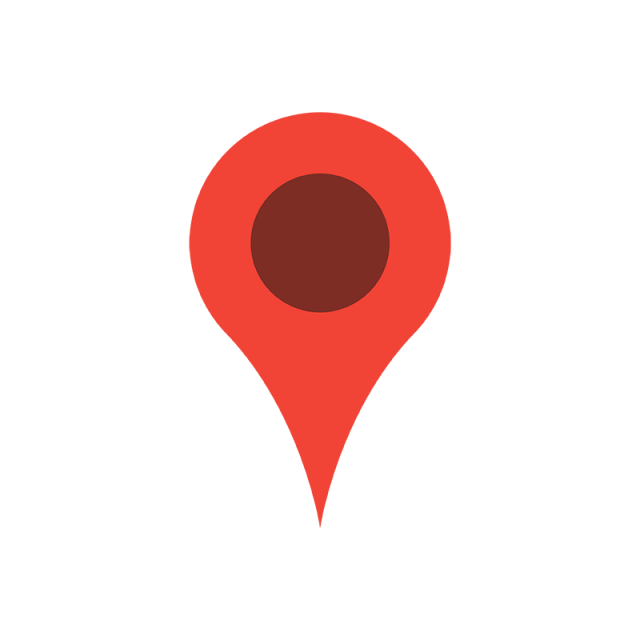
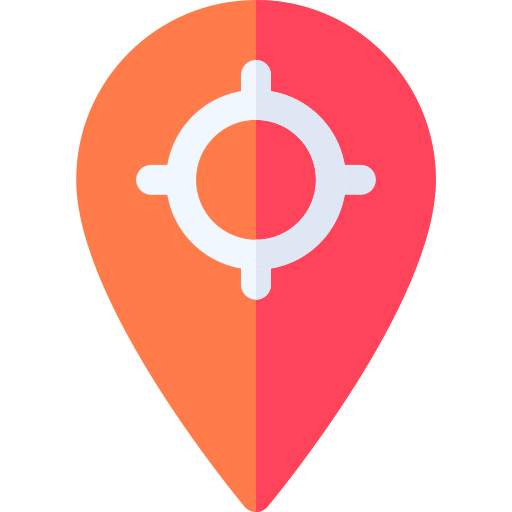
listview

diff --git a/src/styles/App.css b/src/styles/App.css
@@ -1,7 +1,36 @@
+@import url("https://fonts.googleapis.com/css?family=Source+Sans+Pro:400,700");
+
 .map-view {
   width: 100vw;
   height: 100vh;
   z-index: 10;
+}
+#tracking {
+  position: absolute;
+  bottom: 100px;
+  right: 7px;
+  padding: 10px;
+  z-index: 400;
+  border-radius: 40px;
+  border: 0 solid white;
+  background-color: white;
+}
+#route {
+  position: absolute;
+  bottom: 40px;
+  right: 7px;
+  padding: 10px;
+  z-index: 400;
+  border-radius: 40px;
+  border: 0 solid white;
+  background-color: white;
+}
+.img_tracking {
+  width: 100%;
+  height: 3.5vh;
+}
+.mainpage {
+  width: 100%;
 }
 .list-view {
   background-color: white;
@@ -14,17 +43,49 @@
   width: 322px;
   z-index: 30;
 }
-#tracking {
-  position: absolute;
-  top: 20px;
-  right: 20px;
-  padding: 10px;
-  z-index: 400;
+.list-view-brand,
+.list-view-total {
+  background-color: white;
+  border-bottom: 1px solid gray;
+  flex-shrink: 0;
+  padding: 20px;
 }
-.img_tracking {
-  width: 100%;
-  height: 4vh;
+.list-view-locations {
+  border-bottom: 1px solid gray;
+  flex-grow: 1;
+  position: relative;
+  overflow-y: auto;
 }
-.mainpage {
-  width: 100%;
+.list-view-location {
+  background-color: white;
+  padding: 20px;
+  cursor: pointer;
+}
+.list-view-location:first-child {
+  margin-top: 20px;
+}
+.list-view-location:last-child {
+  margin-bottom: 20px;
+}
+.list-view-location:not(:last-child) {
+  border-bottom: 1px solid grayr;
+}
+.list-view-location:hover {
+  background-color: #eee;
+}
+.list-view-location.selected {
+  color: white;
+  background-color: black;
+}
+.list-view-location.selected .title {
+  color: white;
+}
+
+.btn_close {
+  width: 50px;
+  height: 5vh;
+  border: none;
+  background-color: white;
+  font-size: 30px;
+  padding-left: 80%;
 }

diff --git a/src/pages/MapView.js b/src/pages/MapView.js
@@ -7,6 +7,9 @@ import "leaflet/dist/leaflet.css";
 import { useRef, useState } from "react";
 import useGeoLocation from "../leaflet/userGeoLocation";
 import "../styles/App.css";
+import marker from "../assets/marker.png";
+import route from "../assets/route.png";
+import ListView from "../components/ListView";
 
 const MapView = () => {
   const [center] = useState({
@@ -32,12 +35,14 @@ const MapView = () => {
 
   return (
     <>
+      <ListView />
       <MapContainer
         center={center}
         zoom={ZOOM_LEVEL}
-        scrollWheelZoom={false}
+        scrollWheelZoom={true}
         className="map-view"
         ref={mapRef}
+        zoomControl={false}
       >
         <TileLayer
           attribution={osm.maptiler.attribution}
@@ -61,11 +66,10 @@ const MapView = () => {
           ></Marker>
         )}
         <button id="tracking" onClick={showMyLocation}>
-          <img
-            src="https://www.iconbunny.com/icons/media/catalog/product/5/9/595.13-tracking-icon-iconbunny.jpg"
-            alt=""
-            className="img_tracking"
-          />
+          <img src={marker} alt="" className="img_tracking" />
+        </button>
+        <button id="route" onClick={showMyLocation}>
+          <img src={route} alt="" className="img_tracking" />
         </button>
       </MapContainer>
     </>

diff --git a/src/components/ListView.js b/src/components/ListView.js
@@ -1,24 +1,21 @@
 import React from "react";
-import "../styles/App.css"
+import "../styles/App.css";
 
 const ListView = () => {
   return (
-    <div className="list-view">
-      <div className="list-view-brand">
-        Bus
-      </div>
-      <div className="list-view-total">
-        <h2 className="columns">
-          total
-        </h2>
-        <div className="columns">
-          <h6 className="title is-6">Case</h6>
+    <div>
+      <div className="list-view">
+      <button className="btn_close">☰</button>
+        <div className="list-view-brand">
+          <h2 className="title is-4">COVID-19 Tracker</h2>
         </div>
-      </div>
-      <div className="list-view-location"></div>
-      <div className="columns">
-          <h6 className="title is-6">Case</h6>
+        <div className="list-view-total">
+          <h2 className="title is-4">Total</h2>
+          Total
         </div>
+        <div className="list-view-location">Total</div>
+      </div>
+      
     </div>
   );
 };

diff --git a/src/components/MarkerIcon.js b/src/components/MarkerIcon.js
@@ -2,7 +2,7 @@ import L from "leaflet";
 
 export const markerIcon = new L.Icon({
   iconUrl: require("../assets/marker.png"),
-  iconSize: [45, 45],
+  iconSize: [35,35],
   iconAnchor: [17, 45],
   popupAnchor: [3, -46],
 });

diff --git a/src/App.js b/src/App.js
@@ -6,6 +6,7 @@ import {
   Routes,
 } from "react-router-dom";
 import MainPage from "./pages/MainPage";
+import 'bootstrap/dist/css/bootstrap.min.css';
 
 function App() {
   return (

diff --git a/src/components/Navbar.js b/src/components/Navbar.js
@@ -1,0 +1,9 @@
+import React from 'react'
+
+const Navbar = () => {
+  return (
+    <div>Navbar</div>
+  )
+}
+
+export default Navbar
